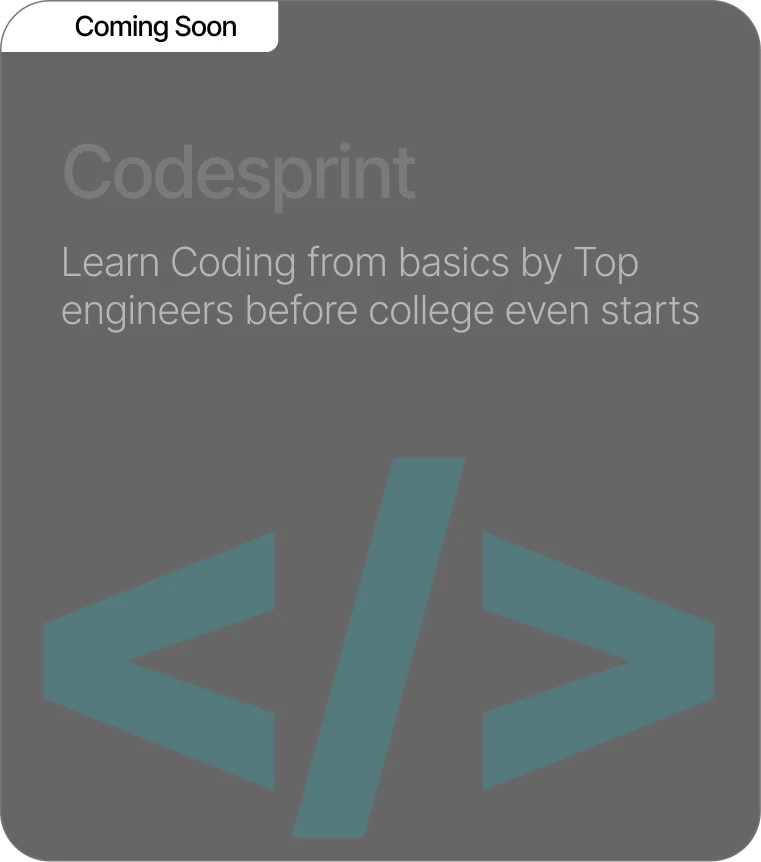
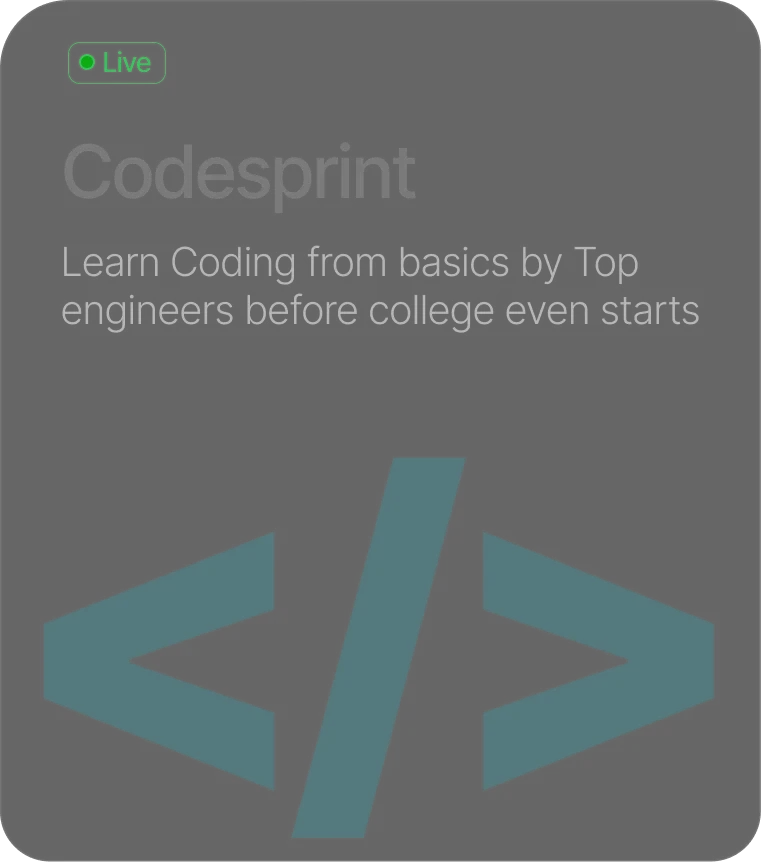
nav: unlock CodeSprint; landing: CodeSprint Live badge (coming-soon removed), Vedam Xp coming-soon badge + non-clickable with levitation restored

Changed region(s): [[0.0, 0.0, 0.3929, 0.0905]]

diff --git a/_ROLLBACK/src/components/landing/landing-page.tsx b/_ROLLBACK/src/components/landing/landing-page.tsx
@@ -11,9 +11,9 @@ const NAV = [
 const LOGOS = ["google", "microsoft", "meta", "cars24", "atlassian", "oracle"];
 const CARDS = [
   { key: "bootcamps", title: "Bootcamps", href: "/events", live: true, glow: "232,0,116", desc: "Build real world projects with AI and attend live sessions before college even starts", ill: "ill-bootcamps.webp" },
-  { key: "codesprint", title: "Codesprint", href: "/codesprint", soon: true, desc: "Learn Coding from basics by Top engineers before college even starts", ill: "ill-codesprint.webp" },
+  { key: "codesprint", title: "Codesprint", href: "/codesprint", live: true, glow: "0,207,229", desc: "Learn Coding from basics by Top engineers before college even starts", ill: "ill-codesprint.webp" },
   { key: "predict", title: "College Predictor", href: "/predict", soon: true, desc: "Explore the best colleges you can get based on your JEE rank or marks", ill: "ill-college-predictor.webp" },
-  { key: "vedamxp", title: "Vedam Xp", href: "/vedam-xp", live: true, glow: "138,24,255", desc: "Learn, Compete and Earn", ill: "ill-vedam-xp.webp" },
+  { key: "vedamxp", title: "Vedam Xp", href: "/vedam-xp", locked: true, desc: "Learn, Compete and Earn", ill: "ill-vedam-xp.webp" },
 ];
 
 export function LandingPage() {
@@ -123,15 +123,22 @@ export function LandingPage() {
           <h2 className="whitespace-nowrap font-medium tracking-tight" style={{ fontSize: "clamp(24px,4.1vw,55px)" }}><span className="ld-silver">Explore Vedam </span><span className="ld-silver font-[family-name:var(--font-playfair)] italic">One</span></h2>
           <p className="mt-6 max-w-[1360px] font-light leading-relaxed tracking-tight text-[#b5b5b5]" style={{ fontSize: "clamp(12px,1.4vw,23px)" }}>Start coding early, build real products with AI, compete in hackathons, join live tech sessions and learn from people working across MAANG and top tech companies.</p>
           <div className="mt-8 grid grid-cols-2 gap-3 sm:gap-5 lg:grid-cols-4">
-            {CARDS.map((c) => (
-              <Link key={c.key} href={c.href} className="group relative block overflow-hidden rounded-[25px] border border-white/15 bg-white/[0.06] backdrop-blur-xl transition-all duration-300 hover:-translate-y-1.5"
-                onMouseEnter={(e) => { if (c.live) e.currentTarget.style.boxShadow = `0 0 85px rgba(${c.glow},0.6)`; }}
-                onMouseLeave={(e) => { e.currentTarget.style.boxShadow = ""; }}>
-                <Image src={`/landing/${c.ill}`} alt={c.title} width={440} height={500} className="h-auto w-full" />
-                {c.live && <span aria-hidden className="pointer-events-none absolute inset-0 z-[3]" style={{ background: "linear-gradient(125deg, rgba(255,255,255,0.28) 0%, rgba(255,255,255,0.06) 18%, transparent 40%, transparent 66%, rgba(255,255,255,0.12) 100%)" }} />}
-                {c.live && <span aria-hidden className="ld-shine pointer-events-none absolute inset-y-0 -left-full z-[4] w-2/3 -skew-x-[20deg]" style={{ background: "linear-gradient(90deg, transparent, rgba(255,255,255,0.10) 30%, rgba(255,255,255,0.55) 50%, rgba(255,255,255,0.10) 70%, transparent)" }} />}
-              </Link>
-            ))}
+            {CARDS.map((c) => {
+              const cls = "group relative block overflow-hidden rounded-[25px] border border-white/15 bg-white/[0.06] backdrop-blur-xl transition-all duration-300" + (c.locked ? " cursor-default" : " hover:-translate-y-1.5");
+              const body = (
+                <>
+                  <Image src={`/landing/${c.ill}`} alt={c.title} width={440} height={500} className={"h-auto w-full" + (c.locked ? " opacity-60" : "")} />
+                  {c.live && <span aria-hidden className="pointer-events-none absolute inset-0 z-[3]" style={{ background: "linear-gradient(125deg, rgba(255,255,255,0.28) 0%, rgba(255,255,255,0.06) 18%, transparent 40%, transparent 66%, rgba(255,255,255,0.12) 100%)" }} />}
+                  {c.live && <span aria-hidden className="ld-shine pointer-events-none absolute inset-y-0 -left-full z-[4] w-2/3 -skew-x-[20deg]" style={{ background: "linear-gradient(90deg, transparent, rgba(255,255,255,0.10) 30%, rgba(255,255,255,0.55) 50%, rgba(255,255,255,0.10) 70%, transparent)" }} />}
+                  {c.locked && <span className="absolute left-1/2 top-1/2 z-[5] -translate-x-1/2 -translate-y-1/2 rounded-full bg-black/60 px-4 py-1.5 font-mono text-[11px] font-bold uppercase tracking-wide text-white/90 backdrop-blur">Coming soon</span>}
+                </>
+              );
+              return c.locked
+                ? <div key={c.key} className={cls} aria-disabled="true">{body}</div>
+                : <Link key={c.key} href={c.href} className={cls}
+                    onMouseEnter={(e) => { if (c.live) e.currentTarget.style.boxShadow = `0 0 85px rgba(${c.glow},0.6)`; }}
+                    onMouseLeave={(e) => { e.currentTarget.style.boxShadow = ""; }}>{body}</Link>;
+            })}
           </div>
         </div>
       </section>

diff --git a/_ROLLBACK/src/components/site-header.tsx b/_ROLLBACK/src/components/site-header.tsx
@@ -21,6 +21,7 @@ export function SiteHeader() {
   const router = useRouter();
   const isAdmin = useIsAdmin();
   const [authed, setAuthed] = useState(false);
+  const [ready, setReady] = useState(false);
   const [name, setName] = useState("");
   const [email, setEmail] = useState("");
   const [phone, setPhone] = useState("");
@@ -55,11 +56,23 @@ export function SiteHeader() {
         setAuthed(false); setName(""); setEmail(""); setPhone(""); setUid(""); setPoints(0); setMenuOpen(false); setProfileComplete(true);
       }
     }
-    supabase.auth.getSession().then(({ data }) => loadUser(data.session));
+    supabase.auth.getSession().then(async ({ data }) => { await loadUser(data.session); setReady(true); });
     const { data: sub } = supabase.auth.onAuthStateChange((_event, session) => { loadUser(session); });
     const onClick = (e: MouseEvent) => { if (menuRef.current && !menuRef.current.contains(e.target as Node)) setMenuOpen(false); };
     document.addEventListener("mousedown", onClick);
     return () => { mounted = false; sub.subscription.unsubscribe(); document.removeEventListener("mousedown", onClick); };
+  }, [supabase]);
+
+  // Re-pull points when something awards them (e.g. completing a CodeSprint lesson).
+  useEffect(() => {
+    async function refreshPoints() {
+      const { data: { session } } = await supabase.auth.getSession();
+      if (!session?.user) return;
+      const { data: pts } = await supabase.from("points_ledger").select("points").eq("user_id", session.user.id);
+      setPoints((pts as { points: number }[] ?? []).reduce((a, r) => a + (r.points || 0), 0));
+    }
+    window.addEventListener("points:changed", refreshPoints);
+    return () => window.removeEventListener("points:changed", refreshPoints);
   }, [supabase]);
 
   if (pathname === "/vsat") return null;
@@ -98,7 +111,7 @@ export function SiteHeader() {
           })}
         </nav>
         <div className="flex items-center gap-2.5">
-          {authed ? (
+          {ready ? (authed ? (
             <>
               <span className="flex items-center gap-2 rounded-full border border-white/15 bg-black/40 px-3.5 py-1.5 text-sm font-semibold text-white transition-all hover:border-white/40 hover:shadow-[0_0_16px_rgba(255,201,60,0.4)]"><span className="hidden text-white/70 sm:inline">Total</span><svg viewBox="0 0 24 24" width="17" height="17" aria-hidden><defs><linearGradient id="shGold" x1="0" y1="0" x2="1" y2="1"><stop offset="0" stopColor="#FFF1B8" /><stop offset="0.5" stopColor="#FFC93C" /><stop offset="1" stopColor="#E39A00" /></linearGradient></defs><path d="M12 2l2.9 6.3 6.9.7-5.1 4.7 1.5 6.8L12 17.8 5.9 21.2l1.5-6.8L2.3 9.7l6.9-.7z" fill="url(#shGold)" stroke="#fff6d6" strokeWidth="0.5" /></svg>{points}</span>
               <div ref={menuRef} className="relative">
@@ -138,7 +151,7 @@ export function SiteHeader() {
                 <span className="inline-flex items-center rounded-full px-2.5 py-1 text-[13px] font-medium text-white transition-colors group-hover/si:bg-[rgba(138,24,255,0.3)] sm:px-4 sm:py-1.5 sm:text-[15px]" style={{ background: "linear-gradient(180deg,#2b135c,#160a30)", boxShadow: "inset 0 1px 0 rgba(255,255,255,0.22)" }}>Register</span>
               </Link>
             </div>
-          )}
+          )) : null}
           <button onClick={() => setNavOpen((o) => !o)} className="ml-1 grid h-9 w-9 flex-none place-items-center rounded-lg border border-white/15 text-white lg:hidden">☰</button>
         </div>
       </div>

diff --git a/src/components/landing/landing-page.tsx b/src/components/landing/landing-page.tsx
@@ -124,13 +124,12 @@ export function LandingPage() {
           <p className="mt-6 max-w-[1360px] font-light leading-relaxed tracking-tight text-[#b5b5b5]" style={{ fontSize: "clamp(12px,1.4vw,23px)" }}>Start coding early, build real products with AI, compete in hackathons, join live tech sessions and learn from people working across MAANG and top tech companies.</p>
           <div className="mt-8 grid grid-cols-2 gap-3 sm:gap-5 lg:grid-cols-4">
             {CARDS.map((c) => {
-              const cls = "group relative block overflow-hidden rounded-[25px] border border-white/15 bg-white/[0.06] backdrop-blur-xl transition-all duration-300" + (c.locked ? " cursor-default" : " hover:-translate-y-1.5");
+              const cls = "group relative block overflow-hidden rounded-[25px] border border-white/15 bg-white/[0.06] backdrop-blur-xl transition-all duration-300 hover:-translate-y-1.5" + (c.locked ? " cursor-default" : "");
               const body = (
                 <>
-                  <Image src={`/landing/${c.ill}`} alt={c.title} width={440} height={500} className={"h-auto w-full" + (c.locked ? " opacity-60" : "")} />
+                  <Image src={`/landing/${c.ill}`} alt={c.title} width={440} height={500} className="h-auto w-full" />
                   {c.live && <span aria-hidden className="pointer-events-none absolute inset-0 z-[3]" style={{ background: "linear-gradient(125deg, rgba(255,255,255,0.28) 0%, rgba(255,255,255,0.06) 18%, transparent 40%, transparent 66%, rgba(255,255,255,0.12) 100%)" }} />}
                   {c.live && <span aria-hidden className="ld-shine pointer-events-none absolute inset-y-0 -left-full z-[4] w-2/3 -skew-x-[20deg]" style={{ background: "linear-gradient(90deg, transparent, rgba(255,255,255,0.10) 30%, rgba(255,255,255,0.55) 50%, rgba(255,255,255,0.10) 70%, transparent)" }} />}
-                  {c.locked && <span className="absolute left-1/2 top-1/2 z-[5] -translate-x-1/2 -translate-y-1/2 rounded-full bg-black/60 px-4 py-1.5 font-mono text-[11px] font-bold uppercase tracking-wide text-white/90 backdrop-blur">Coming soon</span>}
                 </>
               );
               return c.locked

diff --git a/src/components/site-header.tsx b/src/components/site-header.tsx
@@ -11,7 +11,7 @@ const NAV: { label: string; href: string; soon?: boolean }[] = [
   { label: "Home", href: "/" },
   { label: "VSAT", href: "/vsat" },
   { label: "Bootcamps", href: "/events" },
-  { label: "Codesprint", href: "/codesprint", soon: true },
+  { label: "Codesprint", href: "/codesprint" },
   { label: "College Predictor", href: "/predict", soon: true },
 ];
 
